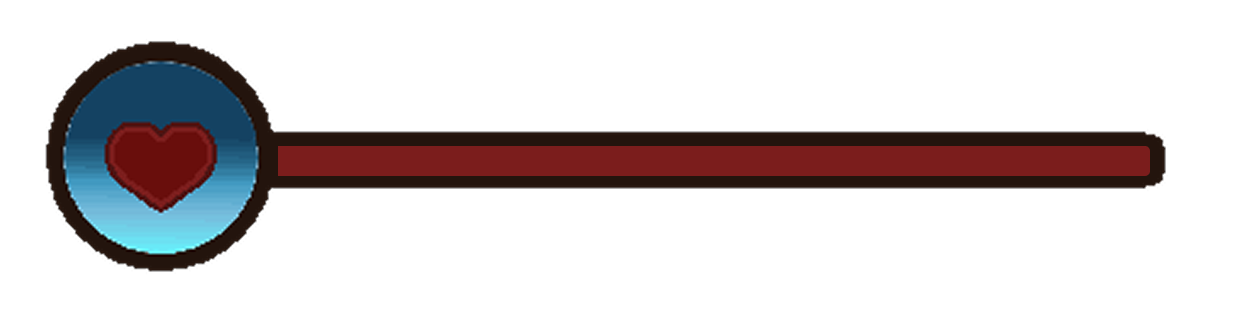
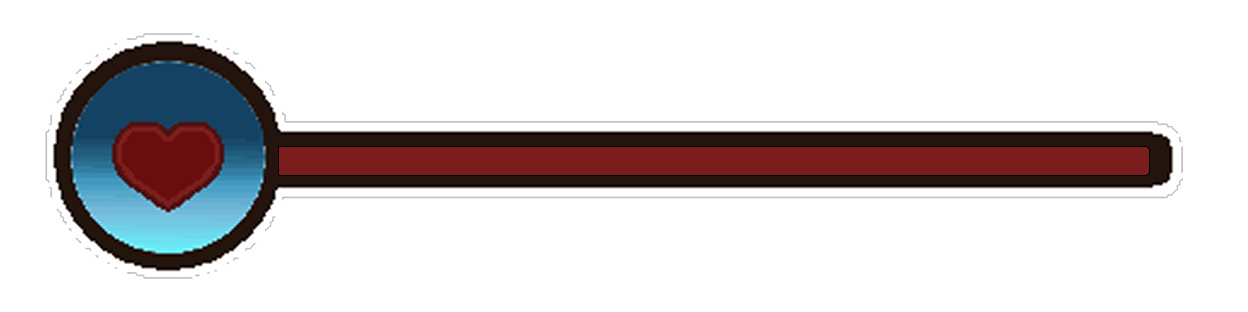
feat: refine game HUD and pickup visuals

Changed region(s): [[0.0312, 0.1442, 0.9688, 0.8942], [0.0938, 0.0865, 0.1562, 0.1731]]

diff --git a/frontend/js/game/game-controller.js b/frontend/js/game/game-controller.js
@@ -158,7 +158,7 @@ export class GameController {
     this.bindEvents();
 
     try {
-      const [map, playerDown, playerUp, playerLeft, playerRight, monster, mimic, barrier, computer] = await Promise.all([
+      const [map, playerDown, playerUp, playerLeft, playerRight, monster, mimic, barrier, computer, earbuds] = await Promise.all([
         loadImage(this.config.assets.map),
         loadImage(this.config.assets.player.down),
         loadImage(this.config.assets.player.up),
@@ -168,6 +168,7 @@ export class GameController {
         loadImage(this.config.assets.mimic),
         loadImage(this.config.assets.barrier),
         loadImage(this.config.assets.computer),
+        loadImage(this.config.assets.earbuds),
       ]);
 
       this.images = {
@@ -176,6 +177,7 @@ export class GameController {
         mimic,
         barrier,
         computer,
+        earbuds,
         player: { down: playerDown, up: playerUp, left: playerLeft, right: playerRight },
       };
       this.prepareMapCollision();
@@ -497,15 +499,13 @@ export class GameController {
         continue;
       }
 
-      const centerX = toScreenX(pickup.x + pickup.size / 2);
-      const centerY = toScreenY(pickup.y + pickup.size / 2);
-      this.context.fillStyle = "#ffd76a";
-      this.context.beginPath();
-      this.context.arc(centerX, centerY, toScreenSize(pickup.size / 2), 0, Math.PI * 2);
-      this.context.fill();
-      this.context.strokeStyle = "#a9702a";
-      this.context.lineWidth = 2;
-      this.context.stroke();
+      this.context.drawImage(
+        this.images.earbuds,
+        toScreenX(pickup.x),
+        toScreenY(pickup.y),
+        toScreenSize(pickup.size),
+        toScreenSize(pickup.size),
+      );
     }
 
     for (const encounter of this.state.encounters) {

diff --git a/frontend/js/scenes/title-scene.js b/frontend/js/scenes/title-scene.js
@@ -15,9 +15,9 @@ export function createTitleScene({ root, goTo }) {
         >
       </h1>
       <ul class="title-scene__menu">
-        <li><button type="button" class="title-scene__menu-button" data-action="start">START</button></li>
-        <li><button type="button" class="title-scene__menu-button" data-action="option">OPTION</button></li>
-        <li><button type="button" class="title-scene__menu-button" data-action="exit">LEADERBOARD</button></li>
+        <li><button type="button" class="title-scene__menu-button" data-action="start">시작</button></li>
+        <li><button type="button" class="title-scene__menu-button" data-action="option">설정</button></li>
+        <li><button type="button" class="title-scene__menu-button" data-action="exit">순위표</button></li>
       </ul>
     `;
     root.appendChild(node);

diff --git a/frontend/js/config.js b/frontend/js/config.js
@@ -48,6 +48,7 @@ export const GAME_CONFIG = Object.freeze({
     mimic: "./assets/images/미믹 1.png",
     barrier: "./assets/images/방벽 1.png",
     computer: "./assets/images/컴퓨터 1.png",
+    earbuds: "./assets/images/에어팟 1.png",
   }),
   mapCrop: Object.freeze({
     x: 301,
@@ -104,9 +105,9 @@ export const GAME_CONFIG = Object.freeze({
     Object.freeze({
       id: "earbudsPickup",
       itemId: "noiseCancelingEarbuds",
-      x: 1820,
-      y: 180,
-      size: 56,
+      x: 1824,
+      y: 184,
+      size: 48,
     }),
   ]),
   stats: Object.freeze({

diff --git a/frontend/css/scenes.css b/frontend/css/scenes.css
@@ -304,7 +304,7 @@
 .hud__stat {
   --empty-ratio: 0;
   position: relative;
-  width: clamp(240px, 38vw, 390px);
+  width: clamp(300px, 42vw, 520px);
   aspect-ratio: 4 / 1;
 }
 
@@ -329,7 +329,7 @@
 .hud__clock {
   padding: 8px 12px;
   font-family: "Press Start 2P", monospace;
-  font-size: clamp(14px, 2vw, 20px);
+  font-size: clamp(18px, 2.6vw, 28px);
   font-weight: 700;
   color: #fff;
   text-shadow: 2px 2px 0 #25130d;

diff --git a/frontend/css/responsive.css b/frontend/css/responsive.css
@@ -11,6 +11,10 @@
   .mobile-pause-button {
     display: grid;
   }
+
+  .hud__stat {
+    width: clamp(260px, 40vw, 340px);
+  }
 }
 
 @media (orientation: portrait) and (hover: none),
